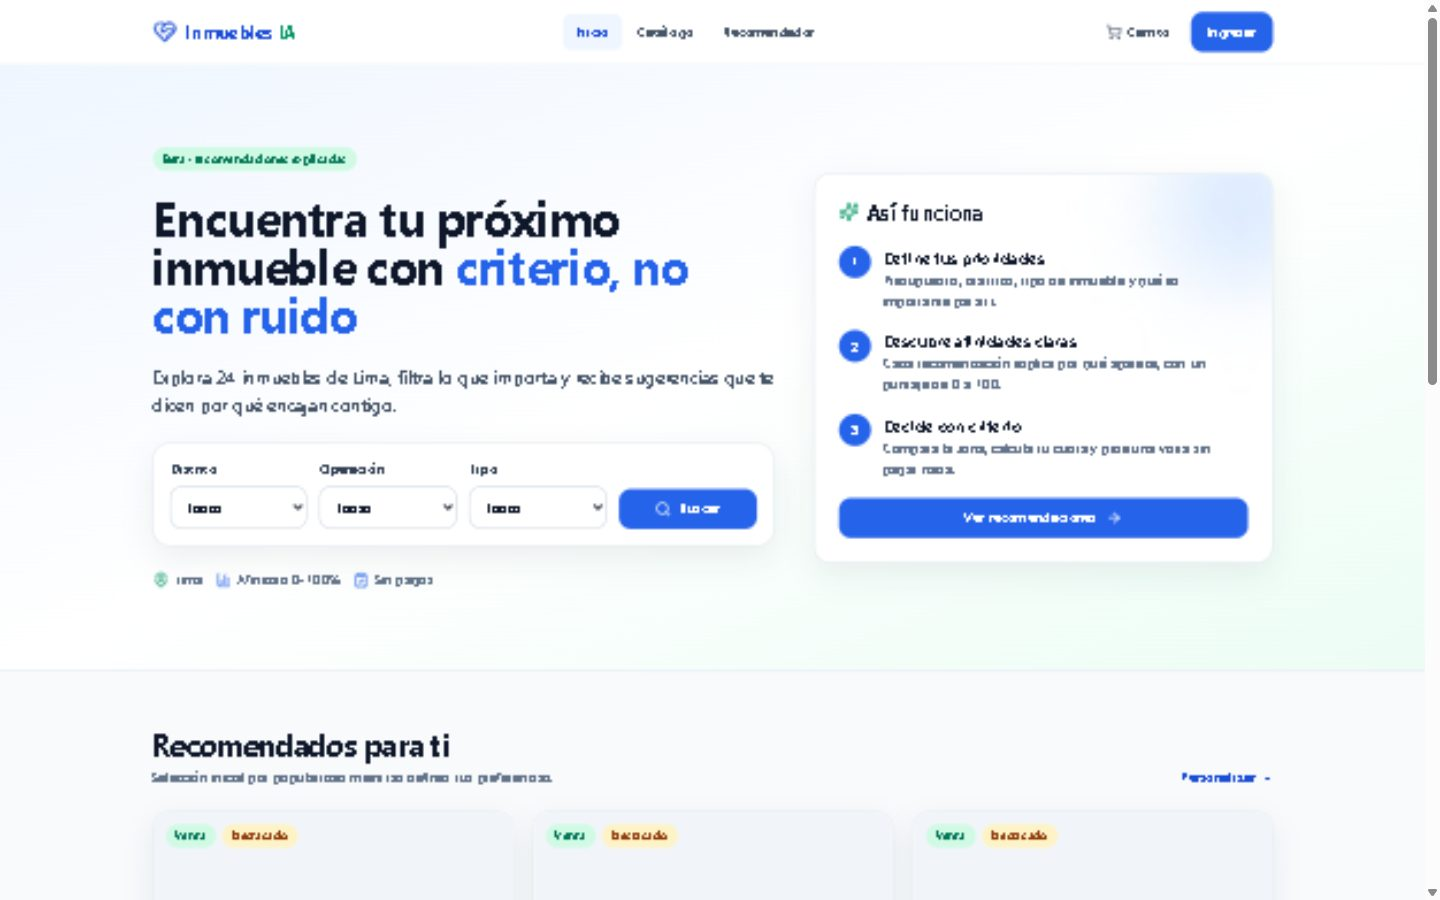
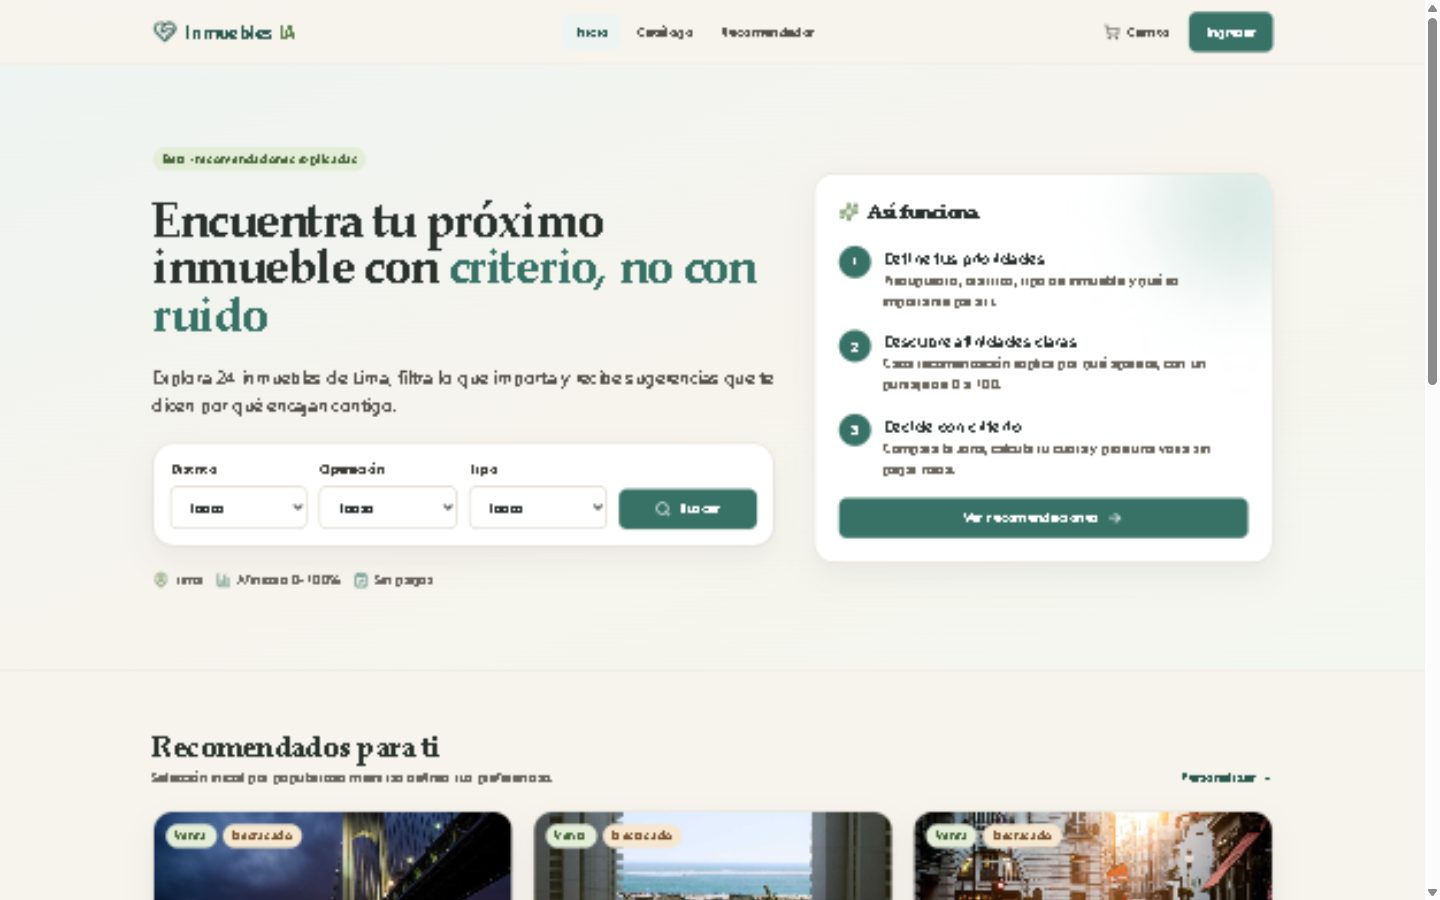
Humaniza la interfaz: paleta cálida, tipografía editorial y estados accesibles

diff --git a/src/index.css b/src/index.css
@@ -8,11 +8,25 @@
   }
 
   body {
-    @apply bg-slate-50 text-ink antialiased;
+    @apply bg-paper text-ink antialiased;
+    background-image:
+      radial-gradient(circle at 12% -10%, rgba(56, 114, 102, 0.06), transparent 32rem),
+      radial-gradient(circle at 92% 8%, rgba(95, 128, 75, 0.05), transparent 28rem);
+    text-rendering: optimizeLegibility;
+  }
+
+  h1,
+  h2,
+  h3 {
+    @apply font-display font-semibold tracking-[-0.015em];
   }
 
   :focus-visible {
-    @apply outline-none ring-2 ring-brand-500 ring-offset-2 ring-offset-white;
+    @apply outline-none ring-2 ring-brand-600 ring-offset-2 ring-offset-paper;
+  }
+
+  ::selection {
+    @apply bg-brand-100 text-brand-700;
   }
 
   img {
@@ -22,23 +36,23 @@
 
 @layer components {
   .card {
-    @apply rounded-2xl border border-slate-200 bg-white shadow-soft;
+    @apply rounded-2xl border border-slate-200/80 bg-white shadow-soft;
   }
 
   .btn {
-    @apply inline-flex items-center justify-center gap-2 rounded-xl px-4 py-2.5 text-sm font-semibold transition-colors disabled:cursor-not-allowed disabled:opacity-50;
+    @apply inline-flex items-center justify-center gap-2 rounded-lg px-4 py-2.5 text-sm font-medium tracking-[0.01em] transition-[background-color,border-color,box-shadow,transform] duration-200 active:translate-y-px disabled:cursor-not-allowed disabled:opacity-50 disabled:active:translate-y-0;
   }
 
   .btn-primary {
-    @apply btn bg-brand-600 text-white hover:bg-brand-700;
+    @apply btn bg-brand-600 text-white shadow-sm hover:bg-brand-700 hover:shadow-md;
   }
 
   .btn-secondary {
-    @apply btn border border-slate-200 bg-white text-ink hover:bg-slate-50;
+    @apply btn border border-slate-200 bg-white text-ink hover:border-slate-300 hover:bg-paper;
   }
 
   .btn-mint {
-    @apply btn bg-mint-600 text-white hover:bg-mint-700;
+    @apply btn bg-mint-600 text-white shadow-sm hover:bg-mint-700 hover:shadow-md;
   }
 
   .btn-ghost {
@@ -46,7 +60,7 @@
   }
 
   .input {
-    @apply w-full rounded-xl border border-slate-300 bg-white px-3 py-2.5 text-sm placeholder:text-slate-400 focus:border-brand-500 focus:outline-none focus:ring-2 focus:ring-brand-100;
+    @apply w-full rounded-lg border border-slate-300/90 bg-white/95 px-3.5 py-2.5 text-sm text-ink placeholder:text-slate-400 focus:border-brand-500 focus:outline-none focus:ring-2 focus:ring-brand-100;
   }
 
   .label {
@@ -54,6 +68,20 @@
   }
 
   .chip {
-    @apply inline-flex items-center gap-1 rounded-full px-2.5 py-1 text-xs font-semibold;
+    @apply inline-flex items-center gap-1 rounded-full px-2.5 py-1 text-xs font-medium tracking-wide;
+  }
+}
+
+@media (prefers-reduced-motion: reduce) {
+  html {
+    scroll-behavior: auto;
+  }
+
+  *,
+  *::before,
+  *::after {
+    animation-duration: 0.01ms !important;
+    animation-iteration-count: 1 !important;
+    transition-duration: 0.01ms !important;
   }
 }

diff --git a/tailwind.config.js b/tailwind.config.js
@@ -4,28 +4,68 @@ export default {
   theme: {
     extend: {
       colors: {
+        paper: "#f7f4ee",
+        ink: "#2b322e",
         brand: {
-          50: "#eff6ff",
-          100: "#dbeafe",
-          200: "#bfdbfe",
-          500: "#3b82f6",
-          600: "#2563eb",
-          700: "#1d4ed8",
+          50: "#eef4f2",
+          100: "#d8e8e3",
+          200: "#b8d4cc",
+          300: "#8fb9ae",
+          500: "#4f8a7d",
+          600: "#387266",
+          700: "#2b584f",
         },
         mint: {
-          50: "#ecfdf5",
-          100: "#d1fae5",
-          500: "#10b981",
-          600: "#059669",
-          700: "#047857",
+          50: "#f3f7ef",
+          100: "#e3edd8",
+          200: "#c9ddb6",
+          300: "#a9c78f",
+          500: "#77995f",
+          600: "#5f804b",
+          700: "#4a663b",
         },
-        ink: "#0f172a",
+        slate: {
+          50: "#f7f4ee",
+          100: "#efeae1",
+          200: "#e2dbcf",
+          300: "#cfc6b8",
+          400: "#8a8479",
+          500: "#6b665e",
+          600: "#56534c",
+          700: "#3f3d37",
+          800: "#2e2d29",
+          900: "#211f1c",
+        },
+        amber: {
+          100: "#f6e7d1",
+          800: "#7d5a35",
+        },
+        rose: {
+          50: "#fbefef",
+          100: "#f5dede",
+          700: "#9b5151",
+        },
       },
       boxShadow: {
-        soft: "0 12px 32px rgba(15, 23, 42, 0.07)",
+        soft: "0 1px 2px rgba(43, 50, 46, 0.04), 0 14px 32px rgba(43, 50, 46, 0.06)",
+        lg: "0 12px 30px rgba(43, 50, 46, 0.10)",
       },
       borderRadius: {
-        "2xl": "1rem",
+        xl: "0.875rem",
+        "2xl": "1.25rem",
+      },
+      fontFamily: {
+        sans: [
+          "ui-sans-serif",
+          "system-ui",
+          "-apple-system",
+          "Segoe UI",
+          "Roboto",
+          "Helvetica Neue",
+          "Arial",
+          "sans-serif",
+        ],
+        display: ["Iowan Old Style", "Palatino Linotype", "Book Antiqua", "Georgia", "serif"],
       },
     },
   },

diff --git a/src/components/PropertyCard.jsx b/src/components/PropertyCard.jsx
@@ -6,7 +6,7 @@ import { dinero } from "../lib/format";
 
 export function PropertyCard({ property, score, explicacion, compacta = false }) {
   return (
-    <Card className="flex h-full flex-col overflow-hidden transition-shadow hover:shadow-lg">
+    <Card className="flex h-full flex-col overflow-hidden transition-shadow duration-300 hover:shadow-lg">
       <Link to={`/propiedades/${property.id}`} className="relative block overflow-hidden" aria-label={`Ver detalle de ${property.titulo}`}>
         <img
           src={property.fotos?.[0]}
@@ -21,7 +21,7 @@ export function PropertyCard({ property, score, explicacion, compacta = false })
           {property.destacado && <Badge tone="amber">Destacado</Badge>}
         </div>
         {typeof score === "number" && (
-          <span className="absolute bottom-3 right-3 rounded-xl bg-white/95 px-2.5 py-1.5 text-xs font-bold text-brand-700 shadow">
+          <span className="absolute bottom-3 right-3 rounded-lg border border-slate-200/80 bg-white/95 px-2.5 py-1.5 text-xs font-semibold text-brand-700 shadow-soft">
             {score}% afinidad
           </span>
         )}

diff --git a/src/components/Navbar.jsx b/src/components/Navbar.jsx
@@ -39,7 +39,7 @@ export function Navbar() {
   const cerrarMenu = () => setAbierto(false);
 
   return (
-    <header className="sticky top-0 z-40 border-b border-slate-200 bg-white/95 backdrop-blur">
+    <header className="sticky top-0 z-40 border-b border-slate-200/70 bg-paper/90 backdrop-blur-md">
       <div className="container mx-auto flex h-16 max-w-6xl items-center justify-between gap-4 px-4">
         <Link to="/" className="flex items-center gap-2 font-bold text-brand-700" onClick={cerrarMenu}>
           <HeartHandshake className="h-6 w-6" aria-hidden="true" />
@@ -106,7 +106,7 @@ export function Navbar() {
       </div>
 
       {abierto && (
-        <nav className="border-t bg-white px-4 py-3 md:hidden" aria-label="Navegación móvil">
+        <nav className="border-t border-slate-200/70 bg-paper/95 px-4 py-3 md:hidden" aria-label="Navegación móvil">
           <div className="mx-auto flex max-w-6xl flex-col gap-1">
             {enlaces.map((enlace) => (
               <NavLink key={enlace.to} to={enlace.to} end={enlace.end} className={enlaceClass} onClick={cerrarMenu}>

diff --git a/src/pages/Home.jsx b/src/pages/Home.jsx
@@ -75,7 +75,7 @@ export function Home() {
 
   return (
     <>
-      <section className="border-b border-slate-200 bg-gradient-to-br from-brand-50 via-white to-mint-50">
+      <section className="border-b border-slate-200/70 bg-gradient-to-br from-brand-50 via-paper to-mint-50">
         <div className="container mx-auto grid max-w-6xl gap-10 px-4 py-14 lg:grid-cols-[1.15fr_0.85fr] lg:items-center lg:py-20">
           <div className="space-y-6">
             <Badge tone="mint">Beta · recomendaciones explicadas</Badge>
@@ -169,7 +169,7 @@ export function Home() {
         )}
       </section>
 
-      <section className="border-y border-slate-200 bg-white py-14">
+      <section className="border-y border-slate-200/70 bg-white/70 py-14">
         <div className="container mx-auto max-w-6xl px-4">
           <SectionTitle titulo="Cómo funciona" descripcion="Tres pasos, sin formularios interminables." />
           <div className="grid gap-4 md:grid-cols-3">

diff --git a/src/components/ui.jsx b/src/components/ui.jsx
@@ -69,7 +69,7 @@ export function Badge({ children, tone = "brand", className = "" }) {
 }
 
 export function Skeleton({ className = "" }) {
-  return <div className={cn("animate-pulse rounded-xl bg-slate-200/80", className)} aria-hidden="true" />;
+  return <div className={cn("animate-pulse rounded-lg bg-slate-200/80", className)} aria-hidden="true" />;
 }
 
 export function PropertyCardSkeleton() {
@@ -107,7 +107,7 @@ export function Toast({ tipo = "success", mensaje, onClose }) {
     <div
       role={exito ? "status" : "alert"}
       className={cn(
-        "flex items-start gap-3 rounded-xl border px-4 py-3 text-sm shadow-soft",
+        "flex items-start gap-3 rounded-lg border px-4 py-3 text-sm shadow-soft",
         exito ? "border-mint-100 bg-mint-50 text-mint-700" : "border-rose-100 bg-rose-50 text-rose-700"
       )}
     >

diff --git a/src/components/Footer.jsx b/src/components/Footer.jsx
@@ -2,7 +2,7 @@ import { Link } from "react-router-dom";
 
 export function Footer() {
   return (
-    <footer className="mt-16 border-t bg-white">
+    <footer className="mt-16 border-t border-slate-200/70 bg-white/60">
       <div className="container mx-auto flex max-w-6xl flex-col gap-3 px-4 py-8 text-sm text-slate-500 sm:flex-row sm:items-center sm:justify-between">
         <p>Versión Beta · datos ficticios · sin pagos ni compromisos</p>
         <nav className="flex flex-wrap gap-4" aria-label="Enlaces del pie">

diff --git a/index.html b/index.html
@@ -4,7 +4,8 @@
     <meta charset="UTF-8" />
     <meta name="viewport" content="width=device-width, initial-scale=1.0" />
     <meta name="description" content="Recomendador Inteligente de Inmuebles: encuentra departamentos y casas con recomendaciones explicadas." />
-    <meta name="theme-color" content="#2563eb" />
+    <meta name="theme-color" content="#2b584f" />
+    <meta name="color-scheme" content="light" />
     <title>Recomendador Inteligente de Inmuebles</title>
   </head>
   <body>

diff --git a/src/components/DemoBanner.jsx b/src/components/DemoBanner.jsx
@@ -6,7 +6,7 @@ export function DemoBanner() {
   if (!esDemo) return null;
 
   return (
-    <div className="bg-brand-600 px-4 py-1.5 text-center text-xs font-medium text-white">
+    <div className="bg-ink px-4 py-1.5 text-center text-[11px] font-medium tracking-wide text-white/90">
       <Info className="mr-1.5 inline h-3.5 w-3.5 align-[-2px]" aria-hidden="true" />
       Demo: las cuentas se guardan solo en este navegador
     </div>
